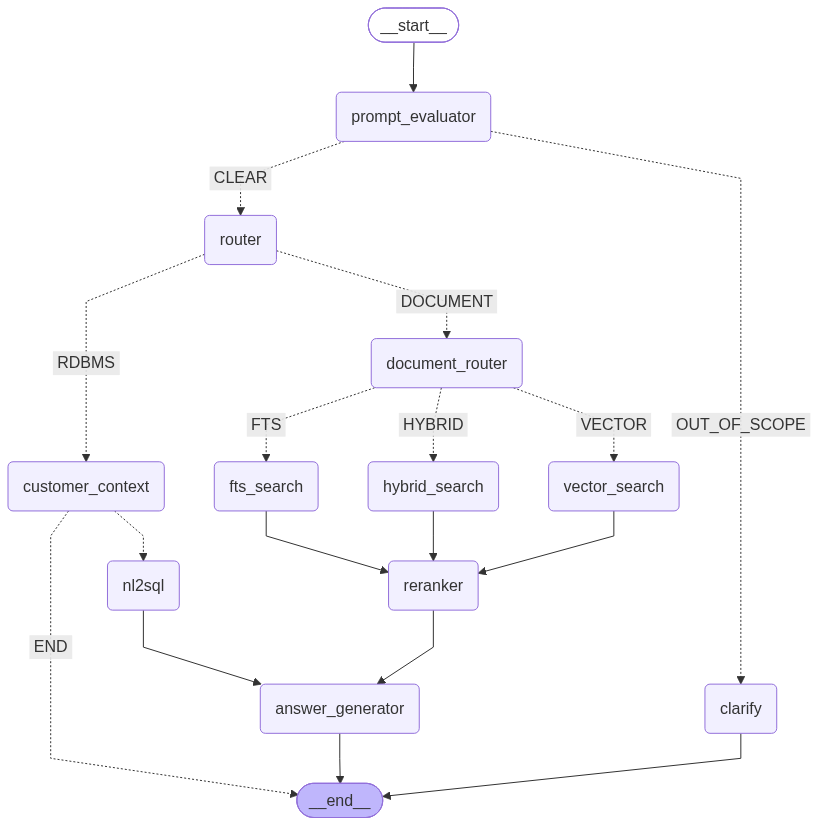
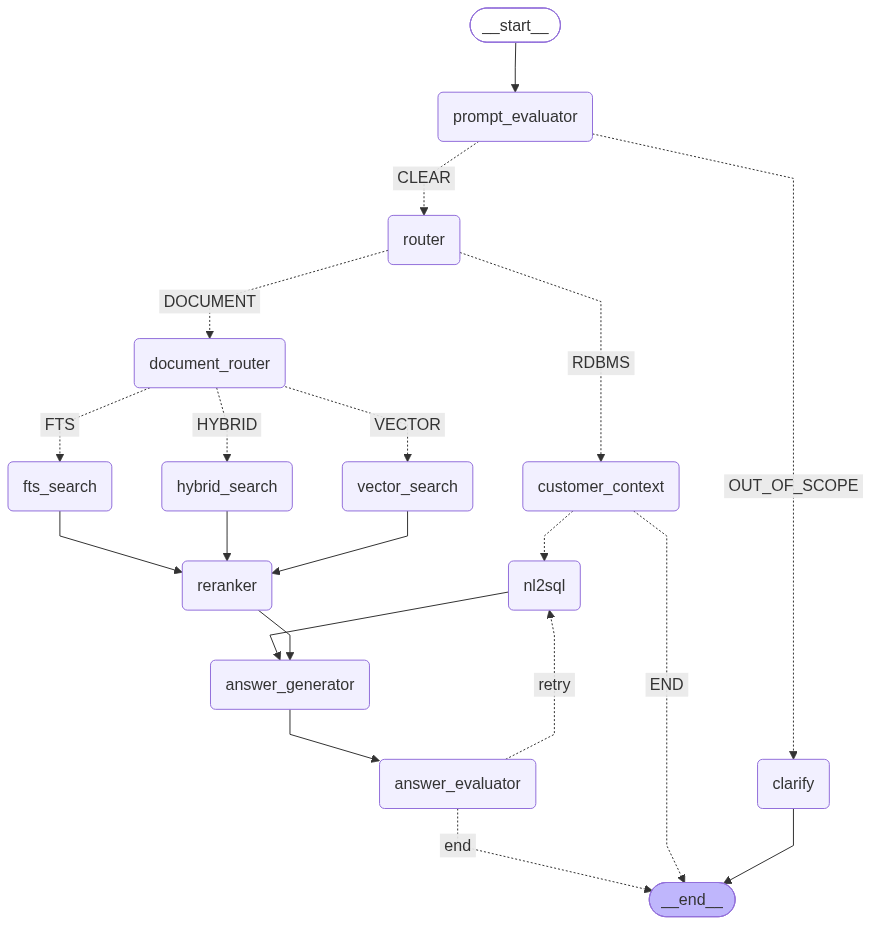
"added evaluator"

diff --git a/app/evaluator/answer_evaluator.py b/app/evaluator/answer_evaluator.py
@@ -43,7 +43,13 @@ PASS or FAIL
 
     print("ANSWER EVALUATION:", result)
 
+    retry_count = state.get("retry_count", 0)
+
+    if result == "FAIL":
+        retry_count += 1
+
     return {
         **state,
-        "evaluation_result": result
+        "evaluation_result": result,
+        "retry_count": retry_count
     }
